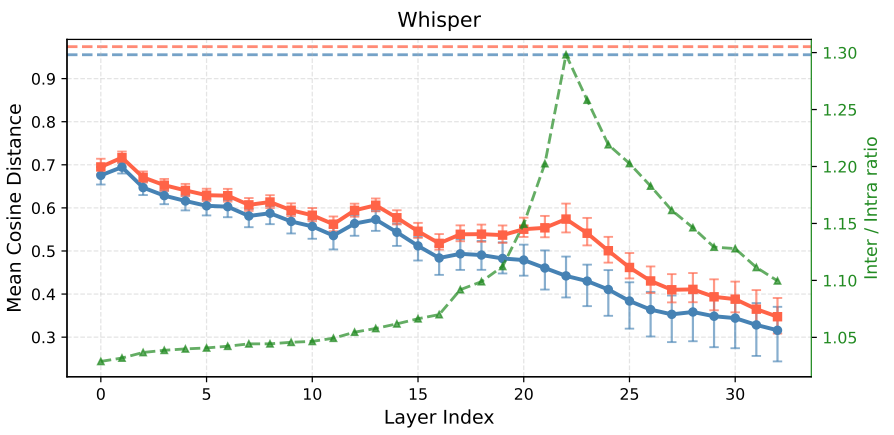
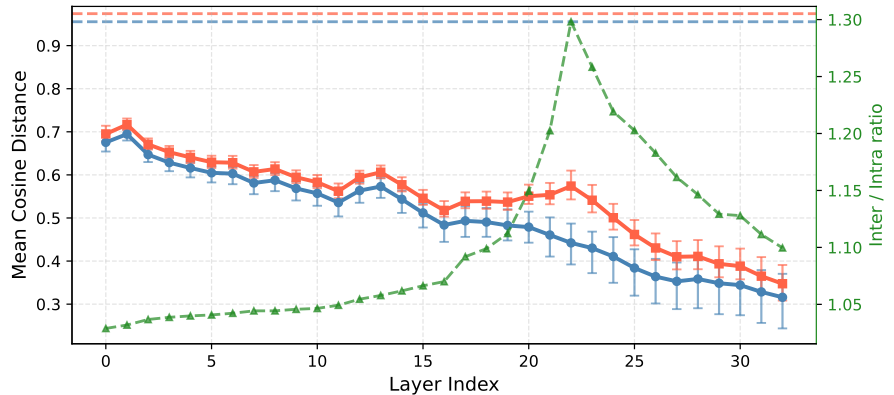
Add new figures and update slides with revised publication information and styling

Changed region(s): [[0.0, 0.0, 0.9966, 1.0]]

diff --git a/src/slidedecks/slides/csi-nkhaous/13_paper2_detail.html b/src/slidedecks/slides/csi-nkhaous/13_paper2_detail.html
@@ -1,4 +1,64 @@
-<div class="csi-slide paper-todo-slide">
+<div class="csi-slide paper2-detail-slide">
+    <style>
+        .paper2-detail-slide .paper2-content {
+            display: grid;
+            grid-template-columns: 47% 53%;
+            align-items: center;
+            width: 91%;
+            margin: 28px auto 0;
+        }
+
+        .paper2-detail-slide .method-points {
+            margin: 0;
+            padding-left: 28px;
+            color: #26343c;
+            font-size: 18px;
+            line-height: 1.45;
+            text-align: left;
+        }
+
+        .paper2-detail-slide .method-points li {
+            margin-bottom: 24px;
+            padding-left: 9px;
+        }
+
+        .paper2-detail-slide .method-points li::marker {
+            color: #277C9D;
+            font-size: 1.25em;
+        }
+
+        .paper2-detail-slide .cluster-figure {
+            display: block;
+            width: auto;
+            height: 475px;
+            margin: 0 auto;
+            object-fit: contain;
+        }
+
+        .paper2-detail-slide .objective {
+            width: 86%;
+            margin: 16px auto 0;
+            color: #277C9D;
+            font-size: 19px;
+            font-weight: 700;
+            text-align: center;
+        }
+    </style>
+
     <p class="titlebox">Accent-Unified Representations for Robust ASR via Supervised Contrastive Learning</p>
-    <div class="todo">TODO</div>
+
+    <div class="paper2-content">
+        <ul class="method-points">
+            <li class="fragment" data-fragment-index="0"><strong>Suite du premier travail :</strong> intervenir sur les représentations pour rendre le modèle plus robuste aux changements d'accent.</li>
+            <li class="fragment" data-fragment-index="1"><strong>Données :</strong> L2-ARCTIC contient les mêmes phrases prononcées par plusieurs locuteurs aux accents différents.</li>
+            <li class="fragment" data-fragment-index="2"><strong>Positifs :</strong> même contenu linguistique, quels que soient le locuteur et son accent.</li>
+            <li class="fragment" data-fragment-index="2"><strong>Négatifs :</strong> contenus linguistiques différents.</li>
+        </ul>
+
+        <img class="cluster-figure fragment" data-fragment-index="3"
+             src="../assets/figures/csi-nkhaous/paper2-content-clusters.png"
+             alt="Organisation des représentations par contenu linguistique avant et après apprentissage contrastif">
+    </div>
+
+    <div class="objective fragment" data-fragment-index="3">Objectif : réduire le regroupement induit par l'accent tout en préservant l'information linguistique.</div>
 </div>

diff --git a/src/slidedecks/slides/csi-nkhaous/15_paper3_detail.html b/src/slidedecks/slides/csi-nkhaous/15_paper3_detail.html
@@ -1,4 +1,32 @@
-<div class="csi-slide paper-todo-slide">
+<div class="csi-slide paper3-detail-slide">
+    <style>
+        .paper3-detail-slide .paper3-points {
+            width: 86%;
+            margin: 62px auto 0;
+            padding-left: 34px;
+            color: #26343c;
+            font-size: 21px;
+            line-height: 1.45;
+            text-align: left;
+        }
+
+        .paper3-detail-slide .paper3-points li {
+            margin-bottom: 25px;
+            padding-left: 10px;
+        }
+
+        .paper3-detail-slide .paper3-points li::marker {
+            color: #277C9D;
+            font-size: 1.25em;
+        }
+    </style>
+
     <p class="titlebox">Learning Curves and the Emergence of Speech Representations across Training Data Scales</p>
-    <div class="todo">TODO</div>
+
+    <ul class="paper3-points">
+        <li>Les versions finales des modèles de parole acquièrent spontanément des compétences linguistiques et phonologiques.</li>
+        <!-- <li>Nous ignorons encore <strong>quand et comment</strong> ces connaissances émergent au cours de l'apprentissage.</li> -->
+        <li>Nous entraînons <strong>wav2vec 2.0 Base</strong> from scratch sur plusieurs volumes de données, en conservant les checkpoints intermédiaires.</li>
+        <li>Les premières expériences utilisent des sondes pour la détection des phonèmes ; d'autres analyses seront ajoutées par la suite.</li>
+    </ul>
 </div>

diff --git a/src/slidedecks/slides/csi-nkhaous/11_paper1_results.html b/src/slidedecks/slides/csi-nkhaous/11_paper1_results.html
@@ -33,7 +33,15 @@
 }
 
 .taln-results-slide .clusters-figure {
-    height: 390px;
+    height: 340px;
+}
+
+.taln-results-slide .figure-title {
+    margin-bottom: 12px;
+    color: #26343c;
+    font-size: 20px;
+    font-weight: 400;
+    text-align: center;
 }
 
 .taln-results-slide .result-takeaway {
@@ -61,6 +69,7 @@
 
 <div class="results-figures">
     <div class="result-panel fragment fade-out" data-fragment-index="0">
+        <div class="figure-title">Corrélation entre le déplacement représentationnel induit par l'accent et les taux d'erreur de reconnaissance automatique de la parole (ASR).</div>
         <img class="correlation-figure"
              src="../assets/figures/csi-nkhaous/accent_correlation.png"
              alt="Corrélation entre la distance au centroïde natif et le taux d'erreur">
@@ -70,6 +79,7 @@
     </div>
 
     <div class="result-panel fragment fade-in" data-fragment-index="0">
+        <div class="figure-title">Distances intra et inter-clusters des groupes d'accents</div>
         <img class="clusters-figure"
              src="../assets/figures/csi-nkhaous/accent_intra_inter.png"
              alt="Distances intra et inter-clusters dans les couches de Whisper et wav2vec 2.0">

diff --git a/src/slidedecks/slides/csi-nkhaous/10_paper1_focus.html b/src/slidedecks/slides/csi-nkhaous/10_paper1_focus.html
@@ -30,7 +30,7 @@
                     <span class="status revision">En cours</span>
                 </div>
                 <div class="authors">Noureddine Khaous · Guillaume Wisniewski</div>
-                <div class="publication-info"><span class="venue">EMNLP 2026</span><span>Refusé</span><span class="next-step">Resoumission prévue au prochain cycle ARR</span></div>
+                <div class="publication-info"><span class="venue">Première soumission refusée</span><span class="next-step">Resoumission prévue au prochain cycle ARR</span></div>
             </div>
         </div>
 

diff --git a/src/slidedecks/slides/csi-nkhaous/12_paper2_focus.html b/src/slidedecks/slides/csi-nkhaous/12_paper2_focus.html
@@ -30,7 +30,7 @@
                     <span class="status revision">En cours</span>
                 </div>
                 <div class="authors">Noureddine Khaous · Guillaume Wisniewski</div>
-                <div class="publication-info"><span class="venue">EMNLP 2026</span><span>Refusé</span><span class="next-step">Resoumission prévue au prochain cycle ARR</span></div>
+                <div class="publication-info"><span class="venue">Première soumission refusée</span><span class="next-step">Resoumission prévue au prochain cycle ARR</span></div>
             </div>
         </div>
 

diff --git a/src/slidedecks/slides/csi-nkhaous/14_paper3_focus.html b/src/slidedecks/slides/csi-nkhaous/14_paper3_focus.html
@@ -30,7 +30,7 @@
                     <span class="status revision">En cours</span>
                 </div>
                 <div class="authors">Noureddine Khaous · Guillaume Wisniewski</div>
-                <div class="publication-info"><span class="venue">EMNLP 2026</span><span>Refusé</span><span class="next-step">Resoumission prévue au prochain cycle ARR</span></div>
+                <div class="publication-info"><span class="venue">Première soumission refusée</span><span class="next-step">Resoumission prévue au prochain cycle ARR</span></div>
             </div>
         </div>
 

diff --git a/src/slidedecks/slides/csi-nkhaous/contributions.html b/src/slidedecks/slides/csi-nkhaous/contributions.html
@@ -254,8 +254,7 @@
             <div class="authors">Noureddine Khaous · Guillaume Wisniewski</div>
 
             <div class="publication-info">
-                <span class="venue">EMNLP 2026</span>
-                <span>Refusé</span>
+                <span class="venue">Première soumission refusée</span>
                 <span class="next-step">Resoumission prévue au prochain cycle ARR</span>
             </div>
         </div>

diff --git a/src/slidedecks/slides/csi-nkhaous/11_paper1_detail.html b/src/slidedecks/slides/csi-nkhaous/11_paper1_detail.html
@@ -70,8 +70,8 @@
 
 <div class="dataset-strip fragment" data-fragment-index="0">
     <div class="dataset-item">Speech Accent Archive</div>
-    <div class="dataset-item">2&nbsp;140 speech samples</div>
-    <div class="dataset-item">214 different native languages</div>
+    <div class="dataset-item">2140 Exemples</div>
+    <div class="dataset-item">214 Accents (>20 exemples par accent)</div>
 </div>
 
 <div class="visual-stage">
